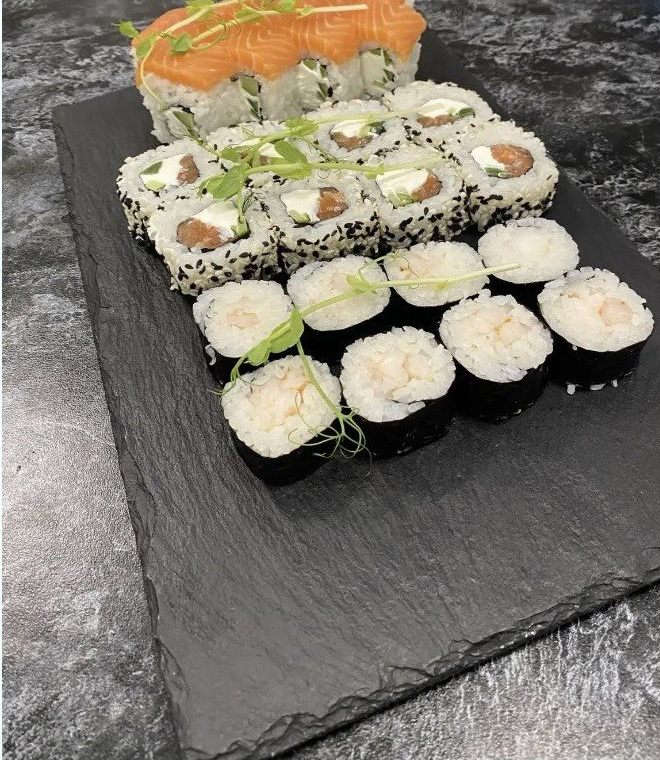
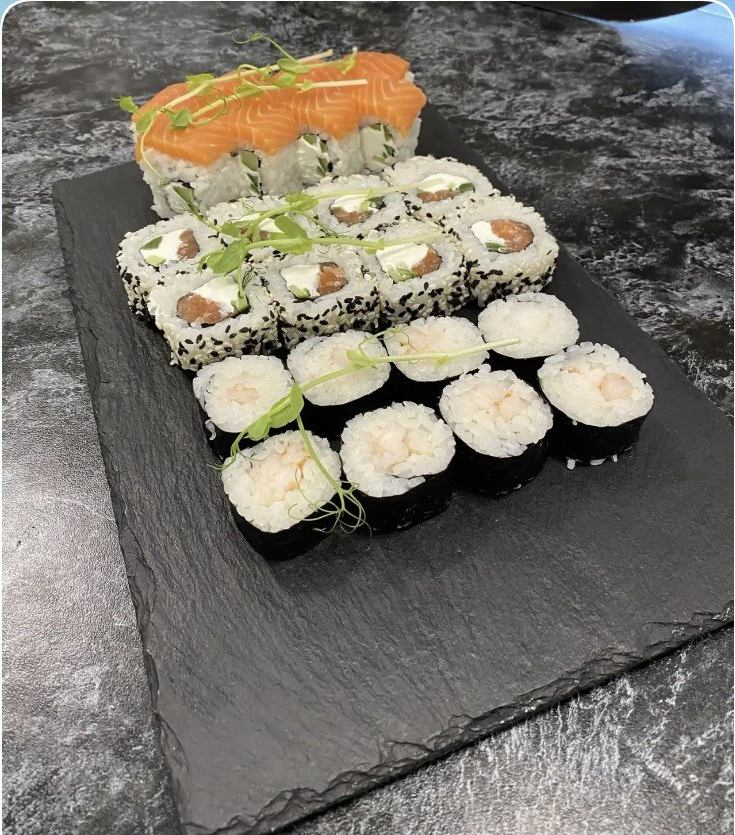
Revert "Убрать обрезки/рамки на фото и добавить заказ по звонку"
This reverts commit be7871b16f01cc9f63a74ed1407ad5a3daeceddb.

diff --git a/script.js b/script.js
@@ -256,7 +256,7 @@ function validateForm() {
   return true;
 }
 
-document.querySelectorAll(".send-btn[data-channel]").forEach(btn => {
+document.querySelectorAll(".send-btn").forEach(btn => {
   btn.addEventListener("click", () => {
     if (!validateForm()) return;
     const text = buildOrderText();
@@ -267,25 +267,6 @@ document.querySelectorAll(".send-btn[data-channel]").forEach(btn => {
       alert("Не удалось скопировать автоматически. Текст заказа:\n\n" + text);
     });
   });
-});
-
-// ====== ЗАКАЗ ПО ЗВОНКУ ======
-function buildCallSummary() {
-  let text = "Хочу заказать:\n";
-  Object.values(cart).forEach(({ item, qty }) => {
-    text += `• ${item.name} × ${qty} — ${item.price * qty} ₽\n`;
-  });
-  text += `\nИтого: ${cartTotal()} ₽`;
-  return text;
-}
-
-document.getElementById("callOrderBtn").addEventListener("click", (e) => {
-  if (cartCount() === 0) {
-    e.preventDefault();
-    alert("Корзина пуста — добавьте блюда из меню, чтобы продиктовать заказ по телефону");
-    return;
-  }
-  navigator.clipboard.writeText(buildCallSummary()).catch(() => {});
 });
 
 // ====== СТАРТ ======

diff --git a/style.css b/style.css
@@ -200,7 +200,7 @@ body {
 }
 
 .dish-photo {
-  padding-top: 75%; /* 4:3 box via padding-hack — works in webviews without aspect-ratio support */
+  aspect-ratio: 4 / 3;
   background: #efe9e0;
   display: flex;
   align-items: center;
@@ -210,11 +210,9 @@ body {
   overflow: hidden;
 }
 .dish-photo img {
-  position: absolute;
-  inset: 0;
   width: 100%;
   height: 100%;
-  object-fit: cover;
+  object-fit: contain;
   display: block;
 }
 .dish-photo img.zoomable { cursor: zoom-in; }
@@ -360,14 +358,10 @@ body {
   font-weight: 700;
   font-size: 14px;
   cursor: pointer;
-  text-align: center;
-  text-decoration: none;
-  display: block;
 }
 .send-btn--wa { background: #25D366; }
 .send-btn--tg { background: #29A9EA; }
 .send-btn--max { background: #6C5CE7; }
-.send-btn--call { background: var(--accent); }
 .send-btn:disabled { opacity: 0.5; cursor: not-allowed; }
 
 /* Mobile cart button */

diff --git a/index.html b/index.html
@@ -102,15 +102,12 @@
         <label class="radio"><input type="radio" name="payment" value="card"> Картой</label>
       </div>
 
-      <div class="order-form__hint">Оплата курьеру / в заведении. Отправьте заказ в MAX или позвоните — продиктуем оператору:</div>
+      <div class="order-form__hint">Оплата курьеру / в заведении. Отправьте заказ в MAX:</div>
 
       <div class="send-buttons">
         <button type="button" class="send-btn send-btn--max" data-channel="max">
           Отправить в MAX
         </button>
-        <a href="tel:+79504858786" class="send-btn send-btn--call" id="callOrderBtn">
-          📞 Позвонить и заказать
-        </a>
       </div>
     </form>
   </div>
